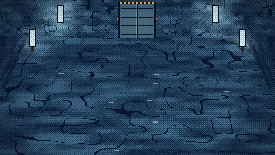
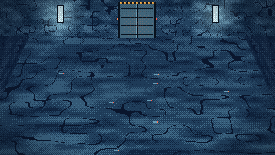
Themed room backdrops in the frontend, ADR 0025 and docs
RoomBackdrop scene module keyed by theme and room kind with Catacombs and placeholder fallbacks, themeId on API types, theme-aware spectator title, ?theme= on start, removed room hue filters; cinematic backdrop cleanup; ADR 0025, roadmap, spike and art README.

Claude-Session: https://claude.ai/code/session_01D5scLyXKpY4cTjZXMdZ5GZ

Changed region(s): [[0.0582, 0.1548, 0.2036, 0.3871], [0.7855, 0.1548, 0.9309, 0.3871]]

diff --git a/frontend/src/App.tsx b/frontend/src/App.tsx
@@ -1,5 +1,6 @@
 import { useEffect, useState } from "react";
 import { AudioControls, useGameAudio } from "./audio";
+import { RoomBackdrop, backdropRef, themeTitle, type BackdropRef } from "./scenes";
 import { EnemyStage } from "./monsters/EnemyStage";
 import { ConnectingScreen, PartyLobby, TitleScreen, type LobbyCatalog } from "./lobby";
 import { getSignatureAbility, partySupportCommand, signatureCommand, type SignatureMode } from "./combatAbilities";
@@ -28,7 +29,7 @@ type ApiCombatEvent = { round: number; kind: string; message: string; effect?: "
 type ApiExit = { id: string; destination: string; label: string; description?: string };
 type ApiEventChoice = { id: string; label: string; description: string };
 type ApiRoomEvent = { id: string; title: string; description: string; choices: ApiEventChoice[]; resolved: boolean; result?: string };
-type ApiDungeonRoom = { id: string; name: string; floor?: string; roomType?: string; description: string; exits: ApiExit[]; encounter?: { status: string; enemies: ApiEnemy[] }; event?: ApiRoomEvent; cleared: boolean };
+type ApiDungeonRoom = { id: string; themeId?: string; name: string; floor?: string; roomType?: string; description: string; exits: ApiExit[]; encounter?: { status: string; enemies: ApiEnemy[] }; event?: ApiRoomEvent; cleared: boolean };
 
 type ApiStats = { power: number; focus: number; agility: number };
 type ApiPlayer = { id: string; health: number; maxHealth: number; archetype: string; classBuild?: { classId: string; signatureAbilityId: string; passiveId: string }; experience: number; level: number; talentPoints: number; talents: string[]; stats: ApiStats; strikeDamage?: number; guardReduction?: number };
@@ -63,7 +64,7 @@ function xpProgress(player: ApiPlayer) {
 type ApiCombatRound = { number: number; startedAt: string; deadline: string; actions: Record<string, { type: string; action: string; mode?: string; targetId?: string }> };
 type ApiNavigationVote = { startedAt: string; deadline: string; votes: Record<string, string> };
 type VoteStatus = { remainingSeconds: number; progressPercent: number; submittedCount: number; eligibleCount: number; voteCounts: Record<string, number>; selectedExit?: string };
-type ApiRun = { id: string; phase: "lobby" | "combat" | "exploring" | "intermission" | "completed" | "failed"; depth?: number; maxDepth?: number; musicIntensity?: number; pendingInterFloorChoice?: boolean; interFloorVote?: ApiNavigationVote; currentRoomId: string; rooms: Record<string, ApiDungeonRoom>; players: Record<string, ApiPlayer>; flags?: Record<string, boolean>; combatRound?: ApiCombatRound; navigationVote?: ApiNavigationVote; lastCombatEvents?: ApiCombatEvent[] };
+type ApiRun = { id: string; themeId?: string; phase: "lobby" | "combat" | "exploring" | "intermission" | "completed" | "failed"; depth?: number; maxDepth?: number; musicIntensity?: number; pendingInterFloorChoice?: boolean; interFloorVote?: ApiNavigationVote; currentRoomId: string; rooms: Record<string, ApiDungeonRoom>; players: Record<string, ApiPlayer>; flags?: Record<string, boolean>; combatRound?: ApiCombatRound; navigationVote?: ApiNavigationVote; lastCombatEvents?: ApiCombatEvent[] };
 type ApiPresence = { status: "online" | "disconnected" | "left"; lastSeenAt: string; leftAt?: string };
 type ApiRoom = { id: string; code: string; ownerPlayerId: string; playerIds: string[]; playerArchetypes?: Record<string, string>; playerClasses?: Record<string, string>; presence?: Record<string, ApiPresence>; run?: ApiRun; version: number };
 type PlayerSession = { roomId: string; playerId: string; playerToken: string; spectatorToken?: string };
@@ -134,26 +135,10 @@ function CombatImpacts({ events, enemies, playerId, view }: { events: ApiCombatE
   </div>;
 }
 
-function PlayerView({ enemies, target, onTarget, room, exits, onNavigate, voteStatus, impacts, playerId }: { enemies: Enemy[]; target: string; onTarget: (id: Enemy["id"]) => void; room: Room; exits: { id: string; destination: RoomId; label: string; description?: string }[]; onNavigate: (id: string) => void; voteStatus?: VoteStatus; impacts: ApiCombatEvent[]; playerId: string }) {
+function PlayerView({ backdrop, enemies, target, onTarget, room, exits, onNavigate, voteStatus, impacts, playerId }: { backdrop: BackdropRef; enemies: Enemy[]; target: string; onTarget: (id: Enemy["id"]) => void; room: Room; exits: { id: string; destination: RoomId; label: string; description?: string }[]; onNavigate: (id: string) => void; voteStatus?: VoteStatus; impacts: ApiCombatEvent[]; playerId: string }) {
   return <div className={"scene player-scene room-" + room.id}>
     <svg className="scene-art" viewBox="0 0 1100 620" role="img" aria-label={"First-person view of " + room.name}>
-      <defs>
-        <linearGradient id="wall" x2="0" y2="1"><stop stopColor="#34303a"/><stop offset="1" stopColor="#171922"/></linearGradient>
-        <linearGradient id="floor" x2="0" y2="1"><stop stopColor="#8a7059"/><stop offset="1" stopColor="#211f27"/></linearGradient>
-        <radialGradient id="torch"><stop stopColor="#f6a34f" stopOpacity=".8"/><stop offset="1" stopColor="#d87536" stopOpacity="0"/></radialGradient>
-        <pattern id="brick" width="100" height="58" patternUnits="userSpaceOnUse"><path d="M0 1H100M0 29H100M50 0V29M0 29V58" fill="none" stroke="#0d1018" strokeOpacity=".55" strokeWidth="5"/></pattern>
-        <pattern id="tiles" width="130" height="70" patternUnits="userSpaceOnUse"><path d="M2 2h62l8 32H10zM76 2h52v32H82zM10 40h65v28H3zM83 40h44v28H80z" fill="#9c8065" fillOpacity=".13" stroke="#171820" strokeWidth="4"/></pattern>
-      </defs>
-      <rect width="1100" height="620" fill="#11131b"/>
-      <path d="M0 0H1100V400L760 255H340L0 400Z" fill="url(#wall)"/><path d="M0 0H1100V400L760 255H340L0 400Z" fill="url(#brick)"/>
-      <path d="M0 400L340 255H760L1100 400V620H0Z" fill="url(#floor)"/><path d="M0 400L340 255H760L1100 400V620H0Z" fill="url(#tiles)"/>
-      <path d="M0 400L340 255H760L1100 400" fill="none" stroke="#b19372" strokeOpacity=".5" strokeWidth="7"/>
-      <path d="M120 0V370L370 260V0M980 0V370L730 260V0" fill="#10131b" stroke="#514239" strokeWidth="13"/>
-      <path d="M160 0V350L390 265V0M940 0V350L710 265V0" fill="#20202a" stroke="#3c3637" strokeWidth="8"/>
-      <path d="M405 0V248Q550 210 695 248V0" fill="#0e121b" stroke="#665343" strokeWidth="12"/>
-      <ellipse cx="120" cy="220" rx="180" ry="180" fill="url(#torch)"/><ellipse cx="980" cy="220" rx="180" ry="180" fill="url(#torch)"/>
-      <g fill="#ffbd67"><path d="M112 160h16v-48h12v48h16v12h-44zM952 160h16v-48h12v48h16v12h-44z"/><path d="M134 112l-12 32h24zM974 112l-12 32h24z"/></g>
-      <path d="M0 510L420 390M1100 510L680 390M0 580L470 430M1100 580L630 430" stroke="#c5a17c" strokeOpacity=".16" strokeWidth="4"/>
+      <RoomBackdrop {...backdrop} view="first" />
       <g transform="translate(550 0)" shapeRendering="crispEdges">
         <path d="M-190 620l22-78 62-44h-40l-48 36-38 86zM190 620l-22-78-62-44h40l48 36 38 86z" fill="#293943"/>
         <path d="M-170 620l18-72 46-36 42 0 12 108zM170 620l-18-72-46-36-42 0-12 108z" fill="#53636a"/>
@@ -170,14 +155,10 @@ function PlayerView({ enemies, target, onTarget, room, exits, onNavigate, voteSt
   </div>;
 }
 
-function CastView({ enemies, playerHp, playerMaxHp, room, exits, voteStatus, impacts, depth }: { enemies: Enemy[]; playerHp: number; playerMaxHp: number; room: Room; depth: number; exits: { id: string; destination: RoomId; label: string; description?: string }[]; voteStatus?: VoteStatus; impacts: ApiCombatEvent[] }) {
+function CastView({ backdrop, themeId, enemies, playerHp, playerMaxHp, room, exits, voteStatus, impacts, depth }: { backdrop: BackdropRef; themeId?: string; enemies: Enemy[]; playerHp: number; playerMaxHp: number; room: Room; depth: number; exits: { id: string; destination: RoomId; label: string; description?: string }[]; voteStatus?: VoteStatus; impacts: ApiCombatEvent[] }) {
   return <div className={"scene cast-scene room-" + room.id}>
     <svg className="scene-art" viewBox="0 0 1100 620" role="img" aria-label={"Cinematic elevated view of " + room.name}>
-      <defs><linearGradient id="castfloor" x2="0" y2="1"><stop stopColor="#4b3d39"/><stop offset="1" stopColor="#171923"/></linearGradient><pattern id="casttiles" width="120" height="70" patternUnits="userSpaceOnUse"><path d="M2 2h56v30H2zM64 2h54v30H64zM2 38h56v30H2zM64 38h54v30H64z" fill="#9d8065" fillOpacity=".15" stroke="#171820" strokeWidth="4"/></pattern></defs>
-      <rect width="1100" height="620" fill="#11131b"/><path d="M0 0H1100V620H0Z" fill="url(#castfloor)"/><path d="M0 0H1100V620H0Z" fill="url(#casttiles)"/>
-      <path d="M0 0H1100V85H0zM0 535H1100V620H0z" fill="#0b0e16" opacity=".8"/>
-      <path d="M120 90L980 90M120 530L980 530M120 90V530M980 90V530" stroke="#92765d" strokeWidth="12" opacity=".65"/>
-      <g fill="#e18b4d" opacity=".7"><circle cx="130" cy="115" r="16"/><circle cx="970" cy="115" r="16"/><circle cx="130" cy="505" r="16"/><circle cx="970" cy="505" r="16"/></g>
+      <RoomBackdrop {...backdrop} view="cinema" />
       <g key={impacts.reduce((latest, event) => event.effect === "damage" && event.targetType === "player" ? Math.max(latest, event.round) : latest, 0)} className={impacts.some(event => event.effect === "damage" && event.targetType === "player") ? "cast-player-hit" : ""} transform="translate(550 370)" shapeRendering="crispEdges"><ellipse cy="38" rx="65" ry="17" fill="#080a10" opacity=".8"/><path d="M-28-50h56v85h-56z" fill="#53636a"/><path d="M-23-84h46v40h-46z" fill="#c59d78"/><path d="M-28-92h56v13h-56z" fill="#49342d"/><path d="M-22 32h19v30h-19zM4 32h19v30H4z" fill="#38313a"/><text y="94" textAnchor="middle" fill="#f0d2a8" fontSize="20">THE WAYFARER</text></g>
       <EnemyStage key={room.id} view="cast" enemies={enemies} events={impacts} />
     </svg>
@@ -185,7 +166,7 @@ function CastView({ enemies, playerHp, playerMaxHp, room, exits, voteStatus, imp
     <div className="enemy-intents">{enemies.filter(e => e.hp > 0).map(e => <div key={e.id} className="intent"><span className="intent-dot"/><span>{e.name}</span><b>{e.intent}</b><small>{e.intentTarget}{e.interruptible ? " · INTERRUPTIBLE" : ""}</small></div>)}</div>
     {exits.length > 0 ? <div className="cast-exits" aria-label="Available paths">{voteStatus ? <div className="path-vote-status" role="timer"><strong>PARTY PATH VOTE</strong><b>{voteStatus.remainingSeconds}s</b><small>{voteStatus.submittedCount}/{voteStatus.eligibleCount} VOTED · TIES RANDOM</small><div className="path-vote-progress"><i style={{ width: voteStatus.progressPercent + "%" }} /></div></div> : null}{exits.map((exit, index) => <div key={exit.id} className={"cast-exit cast-exit-" + (exits.length === 1 ? "center" : index === 0 ? "left" : "right")}><span>{exits.length === 1 ? "↑" : index === 0 ? "↖" : "↗"}</span><strong>{exit.label}</strong><small>{exit.description || "AVAILABLE PATH"}</small>{voteStatus ? <small>{(voteStatus.voteCounts[exit.id] || 0)+" VOTES"}</small> : null}</div>)}</div> : null}
     <div className="scene-location"><span>◆</span> {room.name.toUpperCase()} <i>·</i> SPECTATOR CAMERA</div>
-    <div className="cast-overlay"><strong>THE FORGOTTEN CATACOMBS</strong><span>FLOOR {String(depth).padStart(2, "0")} · PARTY RUN</span><div className="cast-health">WAYFARER <Bar value={playerHp} max={playerMaxHp}/><b>{playerHp}/{playerMaxHp}</b></div></div>
+    <div className="cast-overlay"><strong>{themeTitle(themeId)}</strong><span>FLOOR {String(depth).padStart(2, "0")} · PARTY RUN</span><div className="cast-health">WAYFARER <Bar value={playerHp} max={playerMaxHp}/><b>{playerHp}/{playerMaxHp}</b></div></div>
     <CombatImpacts events={impacts} enemies={enemies} playerId="" view="cast" />
     <div className="scene-hint">CINEMATIC PARTY VIEW · LIVE ENCOUNTER</div>
   </div>;
@@ -320,7 +301,7 @@ export default function App() {
     let active = true;
     const heartbeat = async () => {
       try {
-        const next = await apiRequest<ApiRoom>("/rooms/" + session.roomId + "/heartbeat", session.playerToken, { method: "POST" });
+        const next = await apiRequest<ApiRoom>("/rooms/" + session.roomId + "/heartbeat", session.playerToken, { method: "POST", body: JSON.stringify({ themeId: new URLSearchParams(window.location.search).get("theme") || undefined }) }); // ?theme=scifi picks the dungeon theme until the lobby has a picker
         if (active) setSnapshot(current => !current || next.version >= current.version ? next : current);
       } catch {
         // Snapshot polling continues during a temporary disconnect; the server
@@ -495,8 +476,8 @@ export default function App() {
     {!spectator && <div style={{ display: "flex", justifyContent: "flex-end", alignItems: "center", flexWrap: "wrap", gap: 16, padding: "8px 24px" }}>{session?.spectatorToken ? <><a href={spectatorLink} target="_blank" rel="noreferrer" style={{ color: "#d8a76e" }}>OPEN SPECTATOR VIEW</a><button className="turn-button" onClick={shareSpectatorLink}>{shareCopied ? "SPECTATOR LINK COPIED" : "COPY SPECTATOR LINK"} <span>↗</span></button></> : null}<button className="turn-button" onClick={() => void leaveRoom()} disabled={busy}>LEAVE PARTY</button></div>}
     <section className="play-area">
       {view === "player" && !spectator
-        ? <PlayerView enemies={enemies} target={livingTarget?.id || target} onTarget={setTarget} room={room} exits={availableExits} onNavigate={(exitId: string) => void sendCommand({ type: "choose_exit", exitId })} voteStatus={voteStatus} impacts={run?.lastCombatEvents || []} playerId={playerId || ""} />
-        : <CastView enemies={enemies} playerHp={playerHp} playerMaxHp={playerMaxHp} depth={run.depth ?? 1} room={room} exits={availableExits} voteStatus={voteStatus} impacts={run?.lastCombatEvents || []} />}
+        ? <PlayerView backdrop={backdropRef({ id: serverRoom?.id ?? room.id, roomType: serverRoom?.roomType, themeId: serverRoom?.themeId }, run?.themeId)} enemies={enemies} target={livingTarget?.id || target} onTarget={setTarget} room={room} exits={availableExits} onNavigate={(exitId: string) => void sendCommand({ type: "choose_exit", exitId })} voteStatus={voteStatus} impacts={run?.lastCombatEvents || []} playerId={playerId || ""} />
+        : <CastView backdrop={backdropRef({ id: serverRoom?.id ?? room.id, roomType: serverRoom?.roomType, themeId: serverRoom?.themeId }, run?.themeId)} themeId={serverRoom?.themeId || run?.themeId} enemies={enemies} playerHp={playerHp} playerMaxHp={playerMaxHp} depth={run.depth ?? 1} room={room} exits={availableExits} voteStatus={voteStatus} impacts={run?.lastCombatEvents || []} />}
       {serverRoom?.event ? <section className={"room-event-panel" + (serverRoom.event.resolved ? " room-event-resolved" : "")} aria-live="polite">
         <div className="room-event-heading"><span>{serverRoom.event.resolved ? "DECISION RECORDED" : serverRoom.roomType === "reward" ? "TREASURE" : "DISCOVERY"}</span><h2>{serverRoom.event.title}</h2></div>
         <p>{serverRoom.event.description}</p>
@@ -544,6 +525,6 @@ export default function App() {
       {gameOver ? <div className="event-message" role="status">{run.phase === "completed" ? "THE CATACOMBS ARE CLEARED — VICTORY" : "THE PARTY HAS FALLEN — RUN OVER"}</div> : null}
       {error ? <div className="event-message" role="alert" style={{ color: "#f08f7e" }}>{error}</div> : null}
     </section>
-    <footer className="game-foot"><span>THE FORGOTTEN CATACOMBS</span><span>{spectator ? "INDEPENDENT SPECTATOR · READ-ONLY" : view === "player" ? "PLAYER VIEW · SERVER-VALIDATED COMMANDS" : "SPECTATOR VIEW · READ-ONLY PRESENTATION"}</span></footer>
+    <footer className="game-foot"><span>{themeTitle(serverRoom?.themeId || run?.themeId)}</span><span>{spectator ? "INDEPENDENT SPECTATOR · READ-ONLY" : view === "player" ? "PLAYER VIEW · SERVER-VALIDATED COMMANDS" : "SPECTATOR VIEW · READ-ONLY PRESENTATION"}</span></footer>
   </main>;
 }

diff --git a/frontend/src/styles.css b/frontend/src/styles.css
@@ -33,9 +33,6 @@
 .path-button b{font-size:12px;font-weight:500;color:#f0dfc9}
 .path-button small{overflow:hidden;color:#b8aa9a;font-size:10px;line-height:1.4;text-overflow:ellipsis}
 .path-button i{color:#e0b47e;font-size:10px;font-style:normal;letter-spacing:.8px;white-space:nowrap}
-.room-reliquary .scene-art{filter:hue-rotate(18deg) saturate(.78) brightness(.9)}
-.room-flooded-crossing .scene-art{filter:hue-rotate(155deg) saturate(.82) brightness(.88)}
-.room-warden-gate .scene-art{filter:hue-rotate(285deg) saturate(1.1) brightness(.86)}
 .scene{animation:room-arrive .42s ease-out}
 @keyframes room-arrive{from{opacity:.55;transform:scale(1.015)}to{opacity:1;transform:scale(1)}}
 @media(max-width:700px){.navigation-dock{grid-template-columns:1fr 1fr;gap:5px;margin-top:6px;padding:6px}.navigation-intro{grid-column:1/-1;flex-direction:row;align-items:center;justify-content:space-between;padding:3px 5px 7px;border-right:0;border-bottom:1px solid #51463d}.navigation-intro strong{font-size:10px}.navigation-intro span{font-size:9px}.path-button{gap:6px;padding:8px 6px}.path-direction{flex-basis:25px;height:28px;font-size:16px}.path-button b{font-size:9px}.path-button small{font-size:8px}.path-button i{font-size:8px}}
@@ -253,10 +250,6 @@
 .room-event-choices strong{font-size:12px;font-weight:500}
 .room-event-choices small{color:#c2b19d;font-size:10px;line-height:1.4}
 .room-event-result{padding:9px 11px;background:#20251f;border-left:3px solid #a2b18b;color:#d4ddc7;font-size:11px;line-height:1.5}
-.room-archive .scene-art{filter:sepia(.32) hue-rotate(8deg) saturate(.72) brightness(.82)}
-.room-bone-gallery .scene-art{filter:grayscale(.48) sepia(.3) hue-rotate(315deg) brightness(.78)}
-.room-captive-cell .scene-art{filter:sepia(.55) hue-rotate(340deg) brightness(.72)}
-.room-reliquary-vault .scene-art{filter:sepia(.42) hue-rotate(12deg) saturate(1.15) brightness(.88)}
 @media(max-width:700px){.room-event-panel{width:calc(100% - 12px);max-height:40%;margin:5px 0 7px;padding:9px 10px}.room-event-heading h2{font-size:15px}.room-event-panel>p{font-size:10px;margin-bottom:8px}.room-event-choices{grid-template-columns:1fr;gap:5px}.room-event-choices button{padding:8px}.room-event-choices strong{font-size:10px}.room-event-choices small{font-size:9px}}
 
 /* Pixel-art interface pass: keep the world and its controls in the same visual language. */

diff --git a/frontend/src/scenes/RoomBackdrop.tsx b/frontend/src/scenes/RoomBackdrop.tsx
@@ -1,0 +1,31 @@
+import { useEffect, useState } from "react";
+import { backdropKind, backdropUrl, DEFAULT_THEME_ID, type BackdropKind, type BackdropRoom, type BackdropView } from "./backdrop";
+
+export type BackdropRef = { themeId?: string; kind: BackdropKind };
+export const backdropRef = (room: BackdropRoom, runThemeId?: string): BackdropRef => ({ themeId: room.themeId || runThemeId, kind: backdropKind(room) });
+
+/** Plain gradient stand-in shown until (or instead of) the pixel art: a missing file never leaves the scene blank. */
+function Placeholder({ view }: { view: BackdropView }) {
+  const id = "backdrop-placeholder-" + view;
+  return <g data-backdrop="placeholder">
+    <defs><linearGradient id={id} x2="0" y2="1"><stop stopColor="#2a2630"/><stop offset="1" stopColor="#121319"/></linearGradient></defs>
+    <rect width="1100" height="620" fill={"url(#" + id + ")"}/>
+    {view === "first" ? <path d="M0 400L340 255H760L1100 400V620H0Z" fill="#000" opacity=".25"/> : <path d="M0 0H1100V145H0z" fill="#000" opacity=".25"/>}
+  </g>;
+}
+
+/**
+ * The themed pixel-art background of a room, drawn inside a 1100x620 scene SVG. The 275x155 art is scaled 4x with
+ * nearest-neighbour filtering. If the requested theme's image fails to load, the Catacombs image of the same kind is
+ * tried, then a plain placeholder.
+ */
+export function RoomBackdrop({ themeId, kind, view }: BackdropRef & { view: BackdropView }) {
+  const [source, setSource] = useState(() => backdropUrl(themeId, kind, view));
+  const [failed, setFailed] = useState(false);
+  useEffect(() => { setSource(backdropUrl(themeId, kind, view)); setFailed(false); }, [themeId, kind, view]);
+  if (failed) return <Placeholder view={view}/>;
+  const fallback = backdropUrl(DEFAULT_THEME_ID, kind, view);
+  return <image data-backdrop={themeId || DEFAULT_THEME_ID} data-kind={kind} href={source} x="0" y="0" width="1100" height="620" preserveAspectRatio="none"
+    style={{ imageRendering: "pixelated" }}
+    onError={() => { if (source !== fallback) setSource(fallback); else setFailed(true); }}/>;
+}

diff --git a/frontend/src/scenes/backdrop.ts b/frontend/src/scenes/backdrop.ts
@@ -1,0 +1,34 @@
+// Which pixel-art background a room is shown against. The rule mirrors RoomBackdropKind in
+// backend/internal/game/room_backdrop.go (pinned there by TestRoomBackdropKindRule); the art lives in
+// frontend/public/art/rooms/<theme>/<kind>-<first|cinema>.png and is described by rooms/index.json.
+
+export type BackdropKind = "entry" | "corridor" | "event" | "boss" | "vault";
+export type BackdropView = "first" | "cinema";
+export type BackdropRoom = { id: string; roomType?: string; themeId?: string };
+
+export const DEFAULT_THEME_ID = "catacombs";
+/** Native size of every backdrop PNG; the scene viewBox is this times four. */
+export const BACKDROP_SIZE = { width: 275, height: 155 } as const;
+
+export function backdropKind(room: Pick<BackdropRoom, "id" | "roomType">): BackdropKind {
+  if (room.id.endsWith("entry")) return "entry";
+  if (room.roomType === "boss" || room.roomType === "miniboss") return "boss";
+  if (room.roomType === "event") return "event";
+  if (room.roomType === "reward") return "vault";
+  return "corridor";
+}
+
+/** Runs and rooms saved before themes existed have no themeId and are Catacombs. */
+export const backdropTheme = (themeId?: string) => themeId || DEFAULT_THEME_ID;
+
+export function backdropUrl(themeId: string | undefined, kind: BackdropKind, view: BackdropView): string {
+  return `/art/rooms/${backdropTheme(themeId)}/${kind}-${view}.png`;
+}
+
+/** Display name for the cast overlay; falls back to the id for themes not named here. */
+export const THEME_TITLES: Record<string, string> = {
+  catacombs: "THE FORGOTTEN CATACOMBS", scifi: "SCI-FI RESEARCH FACILITY", mobster: "1930s MOBSTER UNDERWORLD", sunken: "THE SUNKEN KINGDOM",
+  clockwork: "THE CLOCKWORK EMPIRE", carnival: "THE HAUNTED CARNIVAL", jungle: "THE ALIEN JUNGLE", dreamscape: "THE DREAMSCAPES",
+  arctic: "THE ARCTIC STATION", ghosttown: "THE GHOST TOWN", wasteland: "THE WASTELAND SETTLEMENT",
+};
+export const themeTitle = (themeId?: string) => THEME_TITLES[backdropTheme(themeId)] ?? backdropTheme(themeId).toUpperCase();

diff --git a/frontend/src/scenes/index.ts b/frontend/src/scenes/index.ts
@@ -1,0 +1,2 @@
+export { RoomBackdrop, backdropRef, type BackdropRef } from "./RoomBackdrop";
+export { backdropKind, backdropUrl, themeTitle, type BackdropKind, type BackdropView } from "./backdrop";

diff --git a/docs/decisions/0025-themed-floors-and-room-backdrops.md b/docs/decisions/0025-themed-floors-and-room-backdrops.md
@@ -1,0 +1,64 @@
+# ADR 0025: Themed floor generation and pixel-art room backdrops
+
+- Status: Accepted
+- Date: 2026-11-15
+
+## Context
+
+ADR 0023 made every monster and dungeon theme catalog content, but only the Forgotten Catacombs could be played:
+floor generation hard-coded Catacombs rooms, prose and encounters, and rooms were drawn with hand-written SVG whose
+colour was shifted per room id with CSS hue filters. We want a second playable theme (Sci-Fi) now, the other nine
+themes to be additions of data rather than code, and room backgrounds to be pixel art that cannot silently go missing.
+
+## Decision
+
+**Floors are generated from a per-theme `FloorTemplate`.**
+
+- `backend/internal/game/floor_templates.go` holds one shared topology (entry, two alternative routes, event room,
+  guard room, boss room, optional miniboss branch; three floors) and fills it from the theme's template: room
+  names and prose, route and guard encounters, shrine events, a boss per depth, miniboss chance, victory text.
+  Seeded randomness only chooses among authored options.
+- The Catacombs template is the original content moved into data, and its generator consumes `math/rand` in the
+  original order, so Catacombs floors are byte-identical. `TestCatacombsFloorsAreByteIdentical` pins a fingerprint
+  of 4,800 generated floors recorded before the refactor.
+- Sci-Fi (`scifi`) is the second template, with its own bosses by depth (Containment Unit-9, The Overseer,
+  Patient Zero), an event pool, a miniboss and the `scifi-breach` encounter. A theme is `Playable` exactly when it
+  has a template (`TestPlayableThemesMatchFloorTemplates`). The other nine stay unplayable until they get templates.
+- `Run.ThemeID` and `DungeonRoom.ThemeID` (`themeId`, omitted when empty) are set when a run starts. Runs and rooms
+  saved before this change have no `themeId` and are treated as Catacombs (`Run.Theme()`), so no migration is needed.
+- `POST /rooms/{id}/start` accepts an optional `{"themeId": "..."}`. An empty body starts Catacombs; an unknown or
+  unplayable theme is a 400. `GET /themes` lists the playable themes and the default.
+
+**Room backdrops are generated pixel art with a compile-time-style registry.**
+
+- `scripts/pixel-art/rooms/` renders every pixel of a room procedurally (per-pixel perspective texturing, lighting,
+  fog and ordered dithering, then props). Each of the eleven themes has an entry, corridor, event, boss and vault
+  backdrop, each in a first-person view and an elevated cinematic (spectator) view: 110 PNGs of 275x155 under
+  `frontend/public/art/rooms/<theme>/<kind>-<first|cinema>.png`, shown at 4x with nearest-neighbour filtering.
+  Catacombs and Sci-Fi have hand-authored props (skull niches, ceiling conduits...); the other nine have their own
+  palettes, surface patterns, light fixtures, doors and set pieces. Output is deterministic.
+- `build.mjs` also writes `backend/internal/art/rooms_gen.go`: opaque `art.RoomKind` values and one `art.Backdrop` per
+  theme and kind. `game.RoomBackdropKind(room)` maps a room to a kind (`id` ends in `entry` -> entry; boss/miniboss ->
+  boss; event -> event; reward -> vault; otherwise corridor). `FloorTemplateCatalog.Validate` requires a backdrop
+  for every kind the topology produces, and `TestEveryPlayableRoomHasABackdrop` generates floors of every playable
+  theme and checks each room resolves to existing 275x155 PNGs. A template or topology change that needs a
+  background nobody painted fails CI.
+- `npm run art:rooms:verify` (also run in CI) fails if any PNG, manifest, index or the Go registry is stale, missing
+  or extra, if rendering is non-deterministic, if an image is flat, if views or kinds duplicate each other, or if the
+  foreground floor in front of the enemies is busier than the rest of the frame.
+- The frontend (`frontend/src/scenes/`) draws `<RoomBackdrop>` keyed by `themeId` and the same kind rule, falls back to
+  the Catacombs image of that kind and then to a plain placeholder if an image fails to load. The room hue filters
+  are removed; colour now comes from the theme. `App.tsx` only passes the backdrop reference and theme title.
+  Until the lobby has a picker, `?theme=<id>` on the host page chooses the theme at start.
+
+## Consequences
+
+- Adding a playable theme is: a `FloorTemplate`, `Playable: true`, bosses and encounters from its sprites. Its
+  backdrops already exist, and the tests tell you what is missing.
+- The kind rule exists twice (Go and `scenes/backdrop.ts`). The Go test table is the spec; there is no frontend test
+  runner yet to enforce the mirror.
+- The `vault` backdrop is painted and registered but only reward rooms use it, and the shared topology has none.
+- Enemy figures and the player's hands are still SVG drawn over the backdrop; thread A replaces the enemies with
+  sprites. Backdrops leave the standing area and the foreground floor clear for them.
+- Other-theme backdrops are palette and prop variants of shared layouts, not bespoke scenes, and are expected to be
+  refined theme by theme as those themes get floor templates.

diff --git a/ROADMAP.md b/ROADMAP.md
@@ -117,7 +117,8 @@ Character identity, lifetime records, and permadeath rules: see `docs/game-desig
 - [ ] Traps, secrets, treasure rooms, merchants, puzzles, and alternate routes.
 - [ ] Reusable optional side-mission framework.
 - [ ] Distinct enemy families and bosses with mechanics, not just larger health pools.
-- [ ] Simulate and tune the provisional stats, abilities and encounter budgets of the 82 art-backed monsters; give the non-Catacombs themes room graphs and floor generation so their encounters can appear in runs; add a dedicated miniboss sprite.
+- [x] Per-theme floor templates (Catacombs byte-identical) and a playable Sci-Fi theme; `themeId` on runs and rooms; optional theme at run start (ADR 0025)
+- [ ] Simulate and tune the provisional stats, abilities and encounter budgets of the 82 art-backed monsters; give the nine remaining themes floor templates so their encounters can appear in runs; add a dedicated miniboss sprite.
 - [ ] Run modifiers and varied dungeon themes.
 
 ## Phase 4 — Open-world intermissions
@@ -130,7 +131,8 @@ Character identity, lifetime records, and permadeath rules: see `docs/game-desig
 ## Phase 5 — Content and presentation
 
 - [ ] Additional themes (fantasy, sci-fi, noir, and stranger combinations).
-- [ ] Per-theme room backgrounds, props, and encounter tables for the eleven themes that already have monster art; server-side theme and enemy definitions that reference sprite ids.
+- [x] Pixel-art room backdrops (first-person and cinematic; entry, corridor, event, boss, vault) for all eleven themes, registered in Go so a missing background fails CI (ADR 0025)
+- [ ] Bespoke props and layouts per theme beyond Catacombs and Sci-Fi; a lobby theme picker; encounter tables for the nine non-playable themes.
 - [ ] More enemy families, bosses, side missions, items, and abilities.
 - [ ] Cinematic spectator camera movement, animation, audio, accessibility, and localization polish.
 - [ ] Content authoring conventions and validation tools.

diff --git a/docs/art/README.md b/docs/art/README.md
@@ -161,3 +161,25 @@ the server's ability labels so the first two rules decide it.
 The `move` hint on `attack`/`special` (`slash`, `claw`, `smash`, `cast`, `shoot`, `roar`, `wail`, `spit`, `summon`, ...) and keywords in
 the move label choose the effect and its element (frost, fire, acid, shock, spectral, arcane; `fx/elements.ts`). With
 `prefers-reduced-motion` sprites hold a still frame and effects become short static markers.
+
+## Room backdrops
+
+Every theme also has pixel-art room backgrounds in `frontend/public/art/rooms/<theme>/`: five kinds (`entry`,
+`corridor`, `event`, `boss`, `vault`) in two views (`<kind>-first.png`, a first-person view, and `<kind>-cinema.png`, the
+elevated spectator view), 275x155 each, shown at 4x. Catacombs and Sci-Fi have hand-authored props; the other nine themes
+have their own palettes, surface patterns, light fixtures, doors and set pieces. The enemy standing area and the
+foreground floor are kept clear.
+
+![First-person backdrops](rooms-first-person.png)
+![Cinematic backdrops](rooms-cinematic.png)
+
+```
+npm run art:rooms           # regenerate PNGs, manifests, index.json and backend/internal/art/rooms_gen.go
+npm run art:rooms:verify    # fail if stale/missing/extra, non-deterministic, flat or cluttered (runs in CI)
+npm run art:rooms:gallery   # regenerate docs/art/rooms-first-person.png and rooms-cinematic.png
+```
+
+Rendering code and per-theme styles live in `scripts/pixel-art/rooms/` (`styles.mjs` is data, `painter.mjs` the
+per-pixel renderer, `props.mjs` the props and layouts). The Go registry (`art.BackdropFor`, `art.RoomKind*`) and
+`game.RoomBackdropKind` tie rooms to backdrops; a playable theme whose floors contain a room without a background fails
+`go test`. See ADR 0025. The themed encounter catalog now has 73 encounters (`scifi-breach` is new).

diff --git a/docs/game-design/multi-level-dungeon-spike.md b/docs/game-design/multi-level-dungeon-spike.md
@@ -159,6 +159,10 @@ Cumulative level thresholds are now 60 / 150 / 275 / 425 XP for levels 2–5. Th
 - Enemy combinations create distinct tactical priorities, and telegraphed threats have understandable counterplay.
 - The existing music identity remains recognizable while percussion adds a subtle sense of depth and momentum.
 
+## Update: generation is now theme-aware
+
+The generator no longer hard-codes Catacombs content. Floors come from a per-theme `FloorTemplate` over the same topology, Catacombs output is unchanged (golden-tested), and Sci-Fi is the second playable theme. Runs and rooms carry `themeId`; legacy runs default to Catacombs. See ADR 0025.
+
 ## Decision after the spike
 
 Keep the generator only if the tests and playtest show that it creates meaningfully different, completable floors without making room content generic. If it does, promote the generator, encounter director, and floor transition into the Phase 3 procedural-dungeon work; otherwise retain authored floor graphs and use the spike's difficulty/progression findings to guide them.
